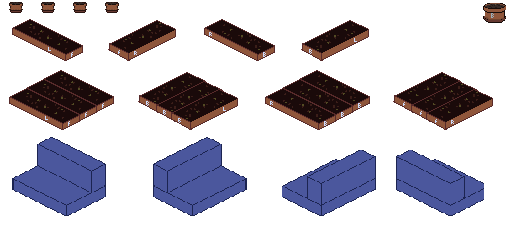
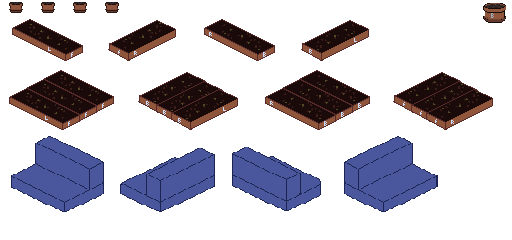
some fixes but still weird rotation

Changed region(s): [[0.0, 0.5542, 0.9688, 0.9042], [0.0938, 0.7, 0.125, 0.7292]]

diff --git a/src/entity/garden.c b/src/entity/garden.c
@@ -7,7 +7,9 @@
 #include <assert.h>
 #include <math.h>
 #include <raylib.h>
+#include <stdbool.h>
 #include <stddef.h>
+#include <stdio.h>
 #include <stdlib.h>
 
 #define LIGHT_SOURCE_RADIUS 40
@@ -100,6 +102,7 @@ IsoRec getPlanterIsoVertices(const Garden *garden, int tileIndex) {
     const Planter *p = &garden->planters[planterIndex];
 
     Rectangle planterRec = {p->coords.x, p->coords.y, p->size.x, p->size.y};
+
     IsoRec isoRec = utils_toIsoRec(
         &garden->transform, planterRec, garden->tileGrid.tileWidth, garden->tileGrid.tileHeight);
 
@@ -344,6 +347,7 @@ typedef struct {
     void *data;
     Vector2 origin;
     float depth;
+    bool highlight;
 } Drawable;
 
 int compareDrawableDepths(const void *a, const void *b) {
@@ -364,9 +368,6 @@ int compareDrawableDepths(const void *a, const void *b) {
 void garden_draw(Garden *garden, enum GardeningTool toolSelected, int toolVariantSelected) {
     IsoRec hoveredTile = {{0, 0}, {0, 0}, {0, 0}, {0, 0}};
     IsoRec selectedTile = {{0, 0}, {0, 0}, {0, 0}, {0, 0}};
-
-    int hoveredPlanterToDrawIndex = -1;
-    int hoveredPlantToDrawIndex = -1;
 
     int maxEntities
         = garden->tileGrid.tileCount + (garden->tileGrid.tileCount * PLANTER_MAX_PLANTS);
@@ -404,12 +405,9 @@ void garden_draw(Garden *garden, enum GardeningTool toolSelected, int toolVarian
                 DRAWABLE_PLANTER,
                 planter,
                 isoTileOrigin,
-                isoTileOrigin.y,
+                isoTile.bottom.y,
+                i == garden->tiles[garden->tileHovered].planterIndex,
             };
-
-            if (i == garden->tiles[garden->tileHovered].planterIndex) {
-                hoveredPlanterToDrawIndex = i;
-            }
 
             entitiesToDrawCount++;
 
@@ -421,17 +419,12 @@ void garden_draw(Garden *garden, enum GardeningTool toolSelected, int toolVarian
                     Vector2 plantOrigin
                         = planter_getPlantWorldPos(planter, &garden->transform, planterOrigin, j);
 
-                    entitiesToDraw[entitiesToDrawCount] = (Drawable){
-                        DRAWABLE_PLANT,
+                    entitiesToDraw[entitiesToDrawCount] = (Drawable){DRAWABLE_PLANT,
                         &planter->plants[j],
                         plantOrigin,
                         plantOrigin.y,
-                    };
-
-                    if (i == garden->tiles[garden->tileHovered].planterIndex
-                        && j == garden->planterTileHovered) {
-                        hoveredPlantToDrawIndex = entitiesToDrawCount;
-                    }
+                        i == garden->tiles[garden->tileHovered].planterIndex
+                            && j == garden->planterTileHovered};
 
                     entitiesToDrawCount++;
                 }
@@ -495,7 +488,7 @@ void garden_draw(Garden *garden, enum GardeningTool toolSelected, int toolVarian
 
             planter_draw(p, origin, garden->transform.scale, garden->transform.rotation, WHITE);
 
-            if (i == hoveredPlanterToDrawIndex) {
+            if (entitiesToDraw[i].highlight) {
                 BeginBlendMode(BLEND_ADDITIVE);
                 planter_draw(p,
                     origin,
@@ -505,12 +498,11 @@ void garden_draw(Garden *garden, enum GardeningTool toolSelected, int toolVarian
                 EndBlendMode();
             }
         } else {
-
             Plant *p = entitiesToDraw[i].data;
 
             plant_draw(p, origin, garden->transform.scale, WHITE);
 
-            if (i == hoveredPlantToDrawIndex) {
+            if (entitiesToDraw[i].highlight) {
                 BeginBlendMode(BLEND_ADDITIVE);
                 plant_draw(p, origin, garden->transform.scale, (Color){255, 255, 255, 100});
                 EndBlendMode();
@@ -571,7 +563,8 @@ void garden_draw(Garden *garden, enum GardeningTool toolSelected, int toolVarian
             planter_draw(&p,
                 drawOrigin,
                 garden->transform.scale,
-                garden->transform.rotation,
+                0,
+                // garden->transform.rotation,
                 (Color){255, 255, 255, 200});
 
         } else if (toolSelected == GARDENING_TOOL_PLANT_CUTTING) {
@@ -603,6 +596,34 @@ void garden_draw(Garden *garden, enum GardeningTool toolSelected, int toolVarian
             plant_draw(&plant, drawOrigin, garden->transform.scale, (Color){255, 255, 255, 200});
         }
     }
+
+    // drawings for debug
+
+    for (int i = 0; i < garden->tileGrid.tileCount; i++) {
+        IsoRec currentTile = getTileIsoVertices(garden, i);
+
+        int planterIndex = garden->tiles[i].planterIndex;
+
+        if (planterIndex == -1) {
+            continue;
+        }
+
+        char buffer[8];
+
+        snprintf(buffer, 8, "%d", planterIndex);
+
+        DrawText(buffer,
+            currentTile.right.x - ((currentTile.right.x - currentTile.left.x) / 2),
+            currentTile.bottom.y - ((currentTile.bottom.y - currentTile.top.y) / 2),
+            20,
+            WHITE);
+    }
+
+    char buffer[8];
+    snprintf(buffer, 8, "GR %d", garden->transform.rotation);
+    DrawText(buffer, 600, 0, 20, WHITE);
+    snprintf(buffer, 8, "SR %d", garden->selectionRotation);
+    DrawText(buffer, 600, 30, 20, WHITE);
 
     // DrawCircle(garden->lightSourcePos.x,
     //     garden->lightSourcePos.y,

diff --git a/src/ui/ui.c b/src/ui/ui.c
@@ -363,9 +363,6 @@ void ui_draw(UI *ui,
 
     // Draw cursor at the end
     Texture2D cursorTexture;
-    Texture2D cursorExtraTexture;
-    Rectangle cursorExtraSourceRec = {0, 0, 0, 0};
-    cursorExtraTexture.id = 0;
 
     switch (toolSelected) {
     case GARDENING_TOOL_IRRIGATOR:
@@ -378,16 +375,10 @@ void ui_draw(UI *ui,
 
     case GARDENING_TOOL_PLANTER:
         cursorTexture = cursorTexture_planter;
-        cursorExtraTexture = planterAtlas;
-        cursorExtraSourceRec = (Rectangle){0, 0, planterAtlas.width, planterAtlas.height};
         break;
 
     case GARDENING_TOOL_PLANT_CUTTING:
         cursorTexture = cursorTexture_plant;
-        cursorExtraTexture = plantAtlas;
-
-        int variantSelection = ui->toolVariantButtonPannel.activeButtonIndex;
-        cursorExtraSourceRec = plant_getSpriteSourceRect(variantSelection, 100);
         break;
 
     case GARDENING_TOOL_TRASH_BIN:
@@ -405,20 +396,4 @@ void ui_draw(UI *ui,
 
     Vector2 mp = input->worldMousePos;
     DrawTexture(cursorTexture, mp.x - cursorTexture_1.width, mp.y, WHITE);
-
-    if (cursorExtraTexture.id != 0) {
-        DrawTexturePro(cursorExtraTexture,
-            cursorExtraSourceRec,
-            (Rectangle){
-                0,
-                0,
-                // mp.x + 10,
-                // mp.y + 10,
-                cursorExtraSourceRec.width / 2,
-                cursorExtraSourceRec.height / 2,
-            },
-            (Vector2){0, 0},
-            0,
-            GetColor(0xffffffec));
-    }
 }

diff --git a/src/entity/planter.c b/src/entity/planter.c
@@ -23,7 +23,7 @@ Vector2 planter_getFootPrint(PlanterType planterType, Rotation rotation) {
         break;
 
     case PLANTER_COUCH:
-        d = (Vector2){4, 4};
+        d = (Vector2){3, 4};
         break;
 
     case PLANTER_TYPE_COUNT:
@@ -42,15 +42,15 @@ Vector3 planter_getIsoDimensions(PlanterType planterType, Rotation rotation) {
     Vector3 dimensionsOnGrid = {f.x, f.y, 0};
 
     if (planterType == PLANTER_COUCH) {
-        dimensionsOnGrid.z = 2;
+        dimensionsOnGrid.z = 1.5;
     } else if (planterType == PLANTER_TYPE_2x2) {
-        dimensionsOnGrid.z = 1;
+        dimensionsOnGrid.z = 0.5;
     }
 
     return (Vector3){
         (dimensionsOnGrid.x + dimensionsOnGrid.y) * TILE_WIDTH / 2,
         (dimensionsOnGrid.x + dimensionsOnGrid.y) * TILE_HEIGHT / 2,
-        dimensionsOnGrid.z * TILE_HEIGHT / 2,
+        dimensionsOnGrid.z * TILE_HEIGHT,
     };
 }
 

diff --git a/src/messages/messages.c b/src/messages/messages.c
@@ -63,7 +63,7 @@ static void addPlanterToSelectedTile(Garden *garden, PlanterType planterType) {
 
         Planter *p = &garden->planters[planterIndex];
 
-        planter_init(p, planterType, origin, garden->selectionRotation, garden->tileGrid.tileWidth);
+        planter_init(p, planterType, origin, rotation, garden->tileGrid.tileWidth);
 
         for (int x = p->coords.x; x < end.x; x++) {
             for (int y = p->coords.y; y < end.y; y++) {
@@ -86,6 +86,12 @@ static void removeFromTile(Garden *garden, Vector2 worldMousePos) {
     if (planterIndex == -1) {
         // nothing to do
         return;
+    }
+
+    for (int i = 0; i < garden->tileGrid.tileCount; i++) {
+        if (garden->tiles[i].planterIndex == planterIndex) {
+            garden->tiles[i].planterIndex = -1;
+        }
     }
 
     Planter *planter = &garden->planters[planterIndex];
